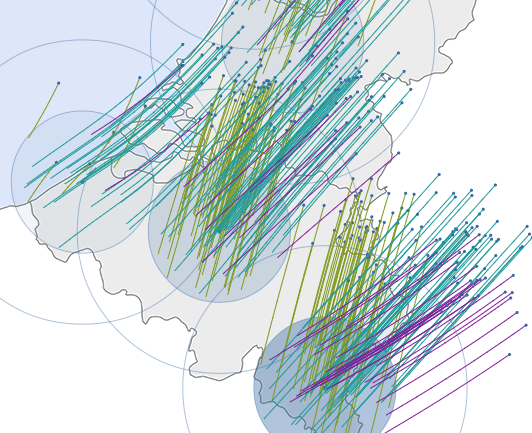
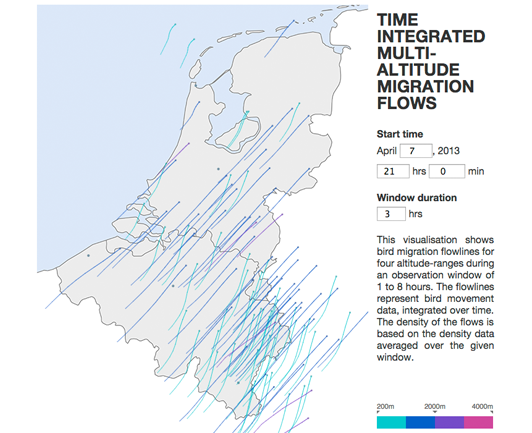
Update of website.

diff --git a/timamp/index.html b/timamp/index.html
@@ -251,9 +251,6 @@ Line color indicates height of observation (0.3-3.9 km), density of lines reflec
                 </div>
             </div>
             
-            
-            
-            
             <div class="row">
                 <div class="col-md-4 col-sm-6 portfolio-item">
                     <a href="#portfolioModal1" class="portfolio-link" data-toggle="modal">
@@ -264,27 +261,27 @@ Line color indicates height of observation (0.3-3.9 km), density of lines reflec
                         </div>
                         <img src="img/screenshots/tipaths3.png" class="img-responsive" alt="">
                     </a>
-                       <div class="portfolio-caption">
+                    <div class="portfolio-caption">
                         <h4>Time Integrated Multi-Altitude Migration Patterns</h4>
                         <p class="text-muted"><a href="#portfolioModal1" class="portfolio-link" data-toggle="modal">Open visualisation</a></p>
                         <p class="text-muted"><a href="../tipaths/tipaths_03/" target="_blank">Open visualisation in new window</a></p>
                     </div>
                 </div>
-                <div class="col-md-4 col-sm-6 portfolio-item">
+                <!--<div class="col-md-4 col-sm-6 portfolio-item">
                     <a href="#portfolioModal2" class="portfolio-link" data-toggle="modal">
                         <div class="portfolio-hover">
                             <div class="portfolio-hover-content">
                                 <i class="fa fa-plus fa-3x"></i>
                             </div>
                         </div>
-                    <img src="img/screenshots/tipaths2.png" class="img-responsive" alt="">
+                        <img src="img/screenshots/tipaths2.png" class="img-responsive" alt="">
                     </a>
                     <div class="portfolio-caption">
                         <h4>Multi-Altitude Migration Patterns</h4>
                         <p class="text-muted"><a href="#portfolioModal2" class="portfolio-link" data-toggle="modal">Open visualisation</a></p>
                         <p class="text-muted"><a href="../tipaths/tipaths_02/" target="_blank">Open visualisation in new window</a></p>
                     </div>
-                </div>
+                </div>-->
                 <div class="col-md-4 col-sm-6 portfolio-item">
                     <a href="#portfolioModal3" class="portfolio-link" data-toggle="modal">
                         <div class="portfolio-hover">
@@ -292,10 +289,10 @@ Line color indicates height of observation (0.3-3.9 km), density of lines reflec
                                 <i class="fa fa-plus fa-3x"></i>
                             </div>
                         </div>
-                    <img src="img/screenshots/tipaths1.png" class="img-responsive" alt="">
+                        <img src="img/screenshots/tipaths1.png" class="img-responsive" alt="">
                     </a>
                     <div class="portfolio-caption">
-                        <h4>Speed and Density Migration Patterns</h4>
+                        <h4>Time Integrated Multi-Strata Migration Patterns</h4>
                         <p class="text-muted"><a href="#portfolioModal3" class="portfolio-link" data-toggle="modal">Open visualisation</a></p>
                         <p class="text-muted"><a href="../tipaths/tipaths_01/" target="_blank">Open visualisation in new window</a></p>
                     </div>
@@ -567,7 +564,7 @@ Line color indicates height of observation (0.3-3.9 km), density of lines reflec
                     <div class="col-lg-12 col-lg-offset-0">
                         <div class="modal-body">
                             <!-- Project Details Go Here -->
-                            <iframe src="../tipaths/tipaths_03/index.html" width="800" height="800" style="border:0"></iframe>
+                            <iframe src="../tipaths/tipaths_03/index.html" width="800" height="900" style="border:0"></iframe>
                             <button type="button" class="btn btn-primary" data-dismiss="modal"><i class="fa fa-times"></i> Close Project</button>
                         </div>
                     </div>
@@ -590,7 +587,7 @@ Line color indicates height of observation (0.3-3.9 km), density of lines reflec
                     <div class="col-lg-12 col-lg-offset-0">
                         <div class="modal-body">
                             <!-- Project Details Go Here -->
-                            <iframe src="../tipaths/tipaths_02/index.html" width="800" height="800" style="border:0"></iframe>
+                            <iframe src="../tipaths/tipaths_02/index.html" width="800" height="900" style="border:0"></iframe>
                             <button type="button" class="btn btn-primary" data-dismiss="modal"><i class="fa fa-times"></i> Close Project</button>
                         </div>
                     </div>

diff --git a/tipaths/tipaths_01/embed.html b/tipaths/tipaths_01/embed.html
@@ -19,10 +19,10 @@
                         <p><input id="input_duration" type="number" min="1" max="8" step="1" value="3" size="1"> hrs</p>
                         <!--<button id="button_redraw" type="button">redraw</button>-->
                     </form>
-                    <p>This visualisation shows bird migration flowlines for four altitude-strata during an observation window of 1 to 8 hours. The flowlines represent bird movement data, integrated over time. The density of the flows is based on the density data averaged over the given window.</p>
+                    <p>This visualisation shows bird migration flowlines for four altitude-ranges during an observation window of 1 to 8 hours. The flowlines represent bird movement data, integrated over time. The density of the flows is based on the density data averaged over the given window.</p>
                 </div>
                 <div class="sideBottomDiv">
-                    <div class="legend_altiColor_annot"><div class="legend_altiColor_annot_a">200m<br><img src="images/legend-mark-left.png" width="5" height="5" alt="|"></div><div class="legend_altiColor_annot_b">2000m<br><img src="images/legend-mark-center.png" width="10" height="5" alt="|"></div><div class="legend_altiColor_annot_c">4000m<br><img src="images/legend-mark-right.png" width="5" height="5" alt="|"></div></div>
+                    <div class="legend_altiColor_annot"><div class="legend_altiColor_annot_a">200m<br><img src="img/legend-mark-left.png" width="5" height="5" alt="|"></div><div class="legend_altiColor_annot_b">2000m<br><img src="img/legend-mark-center.png" width="10" height="5" alt="|"></div><div class="legend_altiColor_annot_c">4000m<br><img src="img/legend-mark-right.png" width="5" height="5" alt="|"></div></div>
                     <div class="legend_altiColor"></div>
                 </div>
             </div>
@@ -36,6 +36,6 @@
                 <a rel="license" href="http://creativecommons.org/licenses/by-nc-sa/4.0/"><img alt="Creative Commons Licence" style="border-width:0" src="https://i.creativecommons.org/l/by-nc-sa/4.0/88x31.png" /></a><br /><span xmlns:dct="http://purl.org/dc/terms/" property="dct:title">Time Integrated Multi-Altitude Migration Patterns</span> by <a xmlns:cc="http://creativecommons.org/ns#" href="http://wouter-vdb.github.io/enram-hackaton/timamp/" property="cc:attributionName" rel="cc:attributionURL">Wouter Van den Broeck, Jan Klaas Van Den Meersche, Kyle Horton and S&eacute;rgio Branco</a><br>is licensed under a <a rel="license" href="http://creativecommons.org/licenses/by-nc-sa/4.0/">Creative Commons Attribution-NonCommercial-ShareAlike 4.0 International License</a>.
             </div>
         </div>
-        <img id="img_map" src="images/basemap_01.png" style="width: 1px; height: 1px;">
+        <img id="img_map" src="img/basemap_01.png" style="width: 1px; height: 1px;">
     </body>
 </html>

diff --git a/tipaths/tipaths_01/js/main.js b/tipaths/tipaths_01/js/main.js
@@ -23,7 +23,7 @@ require(["jquery", "data", "Map", "util", "interpolation"], function ($, data, M
         loadLocal : false,
         altitudes : [0.3, 1.1, 2.1, 3.1],
         maxDensity : 3200,
-        maxPathCnt : 3200 / 100 * 2,
+        maxPathCnt : 3200 / 100 * 5,
         altiHueMin : 0.5,
         altiHueMax : 1,
         altiSaturation : 0.8,
